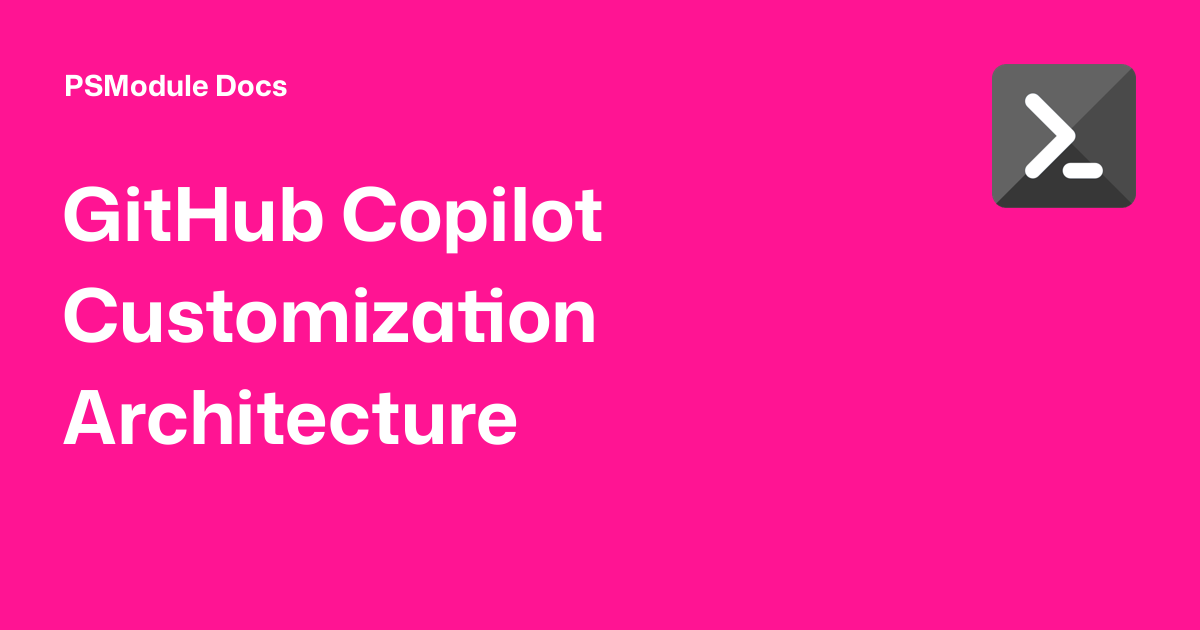
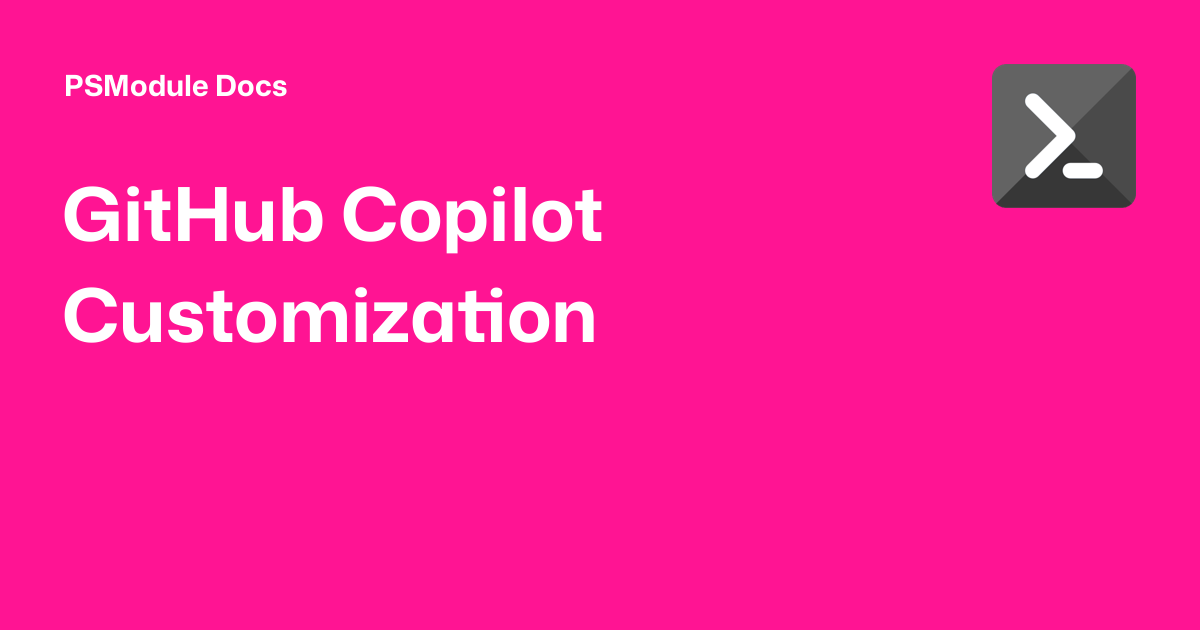
Deployed cc5af16 with MkDocs version: 1.6.1

Changed region(s): [[0.0308, 0.6032, 0.4317, 0.7238]]

diff --git a/Solutions/GitHub-Copilot-Customization-Architecture/index.html b/Solutions/GitHub-Copilot-Customization-Architecture/index.html
@@ -28,7 +28,7 @@
     
     
       
-        <title>GitHub Copilot Customization Architecture - PSModule Docs</title>
+        <title>GitHub Copilot Customization - PSModule Docs</title>
       
     
     
@@ -66,14 +66,14 @@
     
   
 <meta property="og:type" content="website" />
-<meta property="og:title" content="GitHub Copilot Customization Architecture - PSModule Docs" />
+<meta property="og:title" content="GitHub Copilot Customization - PSModule Docs" />
 <meta property="og:image" content="https://psmodule.io/docs/assets/images/social/Solutions/GitHub-Copilot-Customization-Architecture.png" />
 <meta property="og:image:type" content="image/png" />
 <meta property="og:image:width" content="1200" />
 <meta property="og:image:height" content="630" />
 <meta property="og:url" content="https://psmodule.io/docs/Solutions/GitHub-Copilot-Customization-Architecture/" />
 <meta property="twitter:card" content="summary_large_image" />
-<meta property="twitter:title" content="GitHub Copilot Customization Architecture - PSModule Docs" />
+<meta property="twitter:title" content="GitHub Copilot Customization - PSModule Docs" />
 <meta property="twitter:image" content="https://psmodule.io/docs/assets/images/social/Solutions/GitHub-Copilot-Customization-Architecture.png" />
 </head>
   
@@ -127,7 +127,7 @@
         <div class="md-header__topic" data-md-component="header-topic">
           <span class="md-ellipsis">
             
-              GitHub Copilot Customization Architecture
+              GitHub Copilot Customization
             
           </span>
         </div>
@@ -1008,7 +1008,7 @@
   <span class="md-ellipsis">
     
   
-    GitHub Copilot Customization Architecture
+    GitHub Copilot Customization
   
 
     
@@ -1026,7 +1026,7 @@
   <span class="md-ellipsis">
     
   
-    GitHub Copilot Customization Architecture
+    GitHub Copilot Customization
   
 
     

diff --git a/Blog/index.html b/Blog/index.html
@@ -994,7 +994,7 @@
   <span class="md-ellipsis">
     
   
-    GitHub Copilot Customization Architecture
+    GitHub Copilot Customization
   
 
     
@@ -1489,7 +1489,7 @@
       <nav class="md-footer__inner md-grid" aria-label="Footer" >
         
           
-          <a href="../Solutions/GitHub-Copilot-Customization-Architecture/" class="md-footer__link md-footer__link--prev" aria-label="Previous: GitHub Copilot Customization Architecture">
+          <a href="../Solutions/GitHub-Copilot-Customization-Architecture/" class="md-footer__link md-footer__link--prev" aria-label="Previous: GitHub Copilot Customization">
             <div class="md-footer__button md-icon">
               
               <svg xmlns="http://www.w3.org/2000/svg" viewBox="0 0 24 24"><path d="M20 11v2H8l5.5 5.5-1.42 1.42L4.16 12l7.92-7.92L13.5 5.5 8 11z"/></svg>
@@ -1499,7 +1499,7 @@
                 Previous
               </span>
               <div class="md-ellipsis">
-                GitHub Copilot Customization Architecture
+                GitHub Copilot Customization
               </div>
             </div>
           </a>

diff --git a/Solutions/index.html b/Solutions/index.html
@@ -999,7 +999,7 @@
   <span class="md-ellipsis">
     
   
-    GitHub Copilot Customization Architecture
+    GitHub Copilot Customization
   
 
     
@@ -1515,13 +1515,13 @@
         
         
           
-          <a href="GitHub-Copilot-Customization-Architecture/" class="md-footer__link md-footer__link--next" aria-label="Next: GitHub Copilot Customization Architecture">
+          <a href="GitHub-Copilot-Customization-Architecture/" class="md-footer__link md-footer__link--next" aria-label="Next: GitHub Copilot Customization">
             <div class="md-footer__title">
               <span class="md-footer__direction">
                 Next
               </span>
               <div class="md-ellipsis">
-                GitHub Copilot Customization Architecture
+                GitHub Copilot Customization
               </div>
             </div>
             <div class="md-footer__button md-icon">

diff --git a/GitHub-Actions/Some-More/index.html b/GitHub-Actions/Some-More/index.html
@@ -1019,7 +1019,7 @@
   <span class="md-ellipsis">
     
   
-    GitHub Copilot Customization Architecture
+    GitHub Copilot Customization
   
 
     

diff --git a/GitHub-Actions/Subtopic/Some-More/index.html b/GitHub-Actions/Subtopic/Some-More/index.html
@@ -1021,7 +1021,7 @@
   <span class="md-ellipsis">
     
   
-    GitHub Copilot Customization Architecture
+    GitHub Copilot Customization
   
 
     

diff --git a/GitHub-Actions/Subtopic/Test-Something/index.html b/GitHub-Actions/Subtopic/Test-Something/index.html
@@ -1021,7 +1021,7 @@
   <span class="md-ellipsis">
     
   
-    GitHub Copilot Customization Architecture
+    GitHub Copilot Customization
   
 
     

diff --git a/GitHub-Actions/Subtopic/index.html b/GitHub-Actions/Subtopic/index.html
@@ -1011,7 +1011,7 @@
   <span class="md-ellipsis">
     
   
-    GitHub Copilot Customization Architecture
+    GitHub Copilot Customization
   
 
     

diff --git a/GitHub-Actions/Test-Something/index.html b/GitHub-Actions/Test-Something/index.html
@@ -1019,7 +1019,7 @@
   <span class="md-ellipsis">
     
   
-    GitHub Copilot Customization Architecture
+    GitHub Copilot Customization
   
 
     

diff --git a/GitHub-Actions/index.html b/GitHub-Actions/index.html
@@ -1009,7 +1009,7 @@
   <span class="md-ellipsis">
     
   
-    GitHub Copilot Customization Architecture
+    GitHub Copilot Customization
   
 
     

diff --git a/PowerShell-Modules/Test-Specification/index.html b/PowerShell-Modules/Test-Specification/index.html
@@ -1150,7 +1150,7 @@
   <span class="md-ellipsis">
     
   
-    GitHub Copilot Customization Architecture
+    GitHub Copilot Customization
   
 
     

diff --git a/PowerShell-Modules/Versioning/index.html b/PowerShell-Modules/Versioning/index.html
@@ -1144,7 +1144,7 @@
   <span class="md-ellipsis">
     
   
-    GitHub Copilot Customization Architecture
+    GitHub Copilot Customization
   
 
     

diff --git a/PowerShell-Modules/index.html b/PowerShell-Modules/index.html
@@ -1009,7 +1009,7 @@
   <span class="md-ellipsis">
     
   
-    GitHub Copilot Customization Architecture
+    GitHub Copilot Customization
   
 
     
